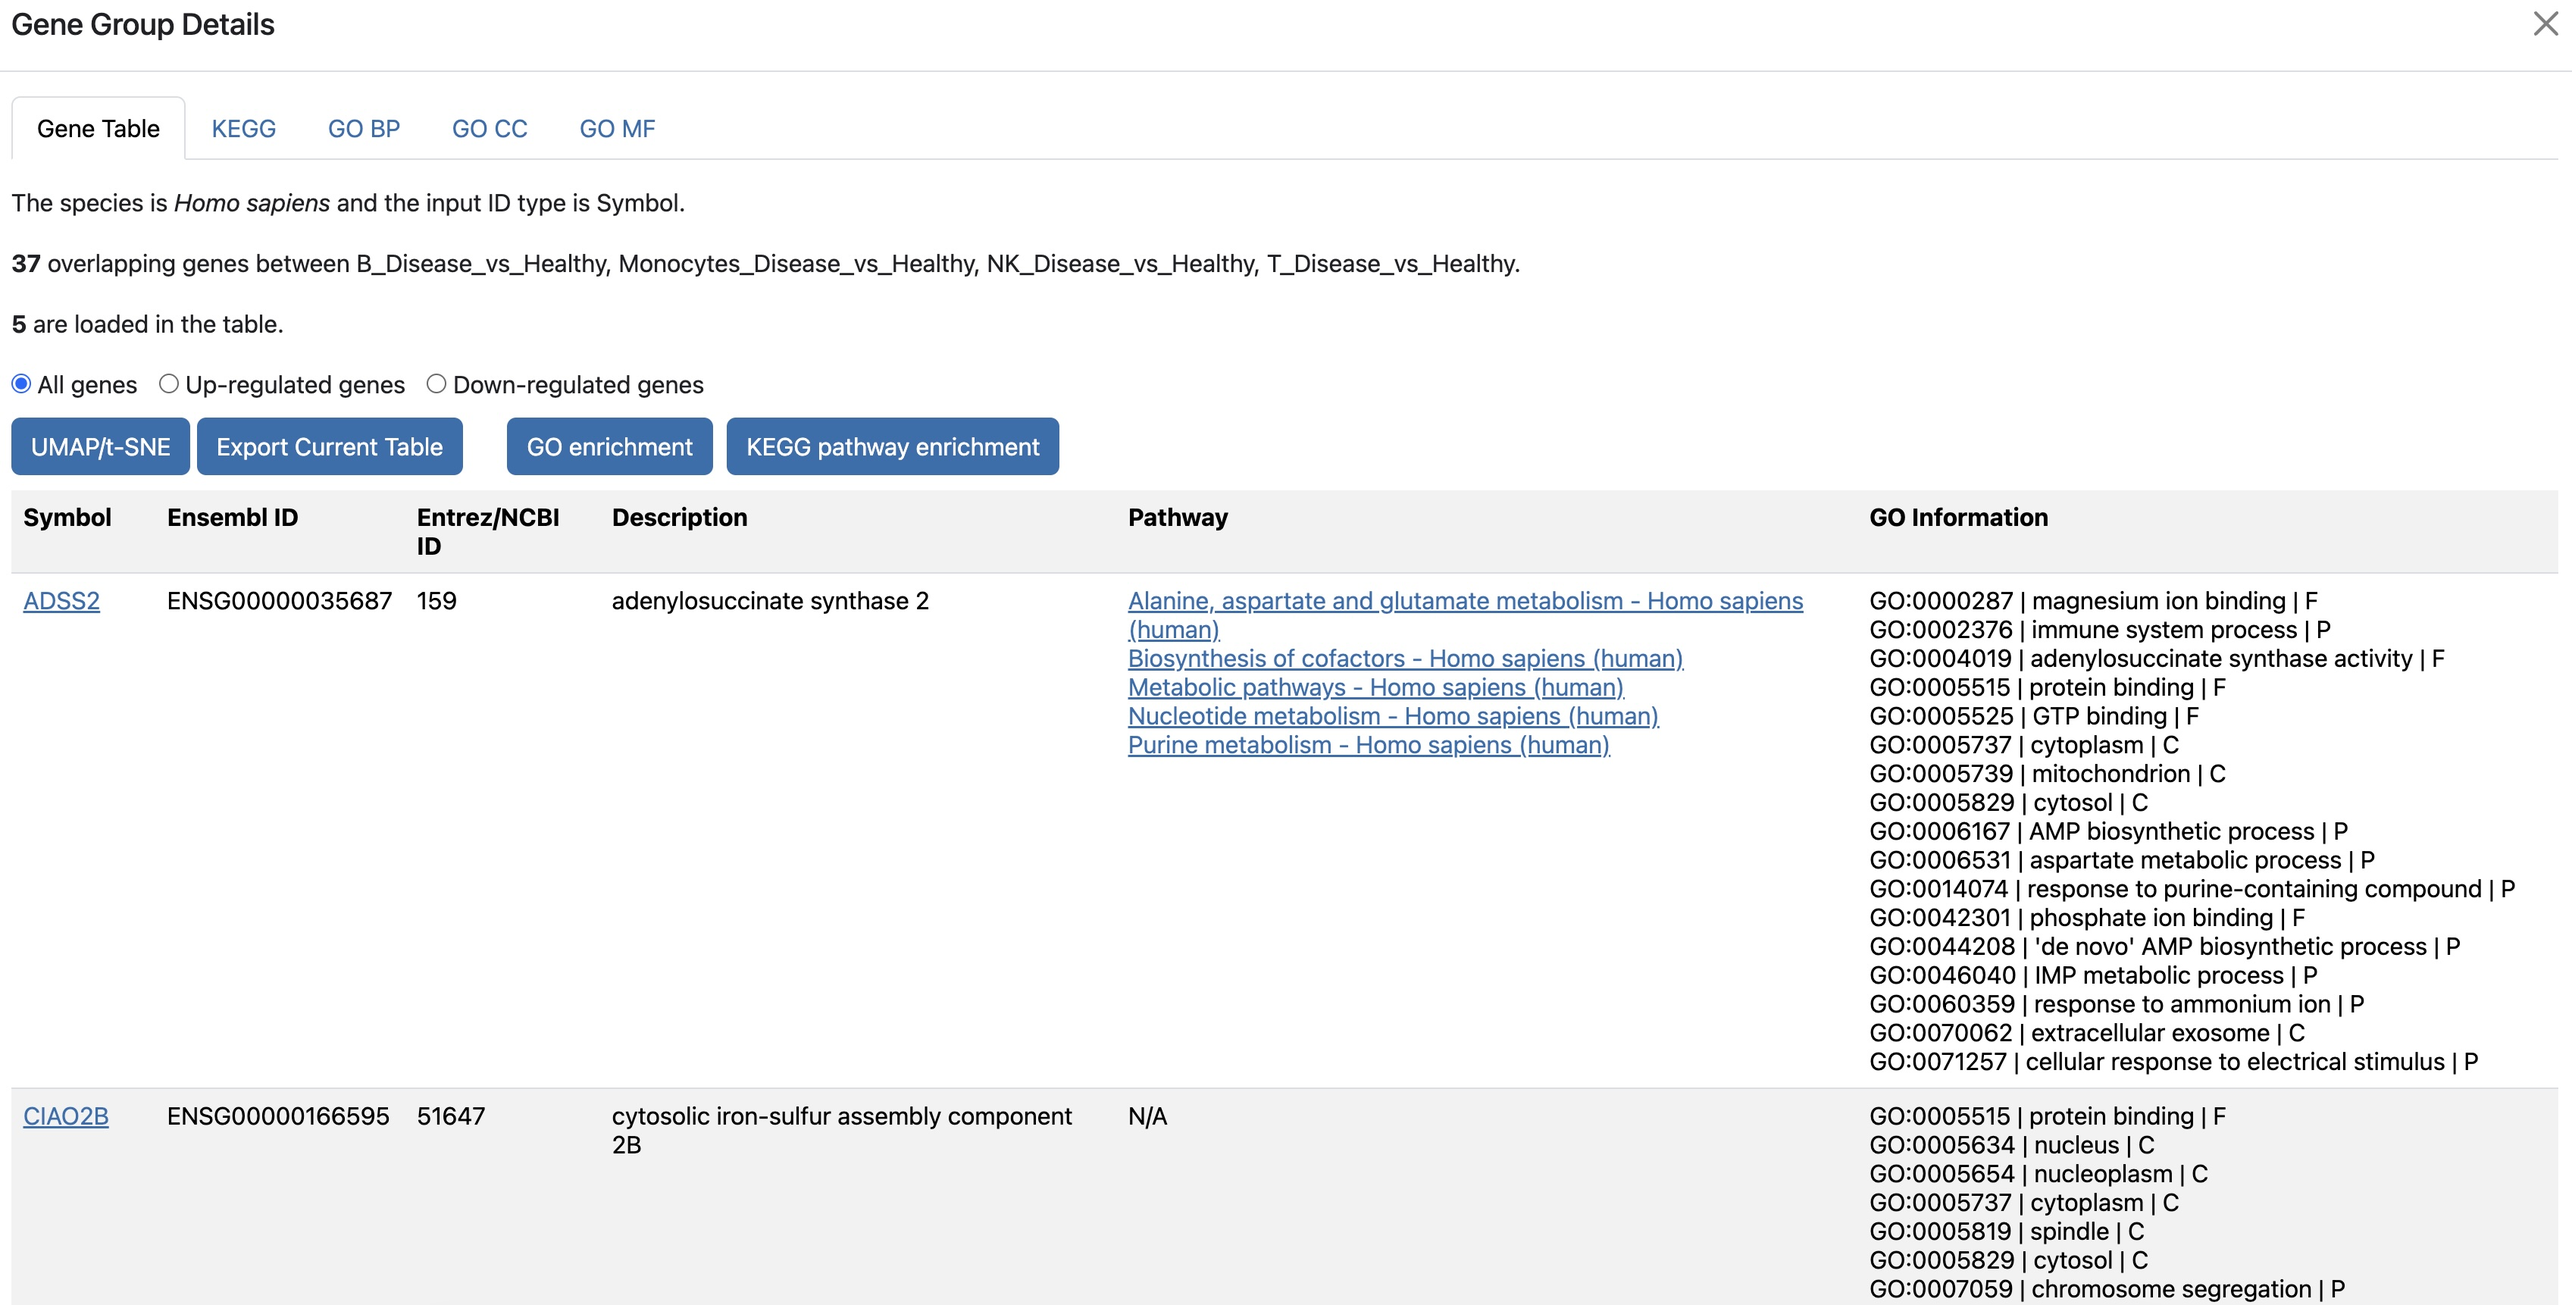
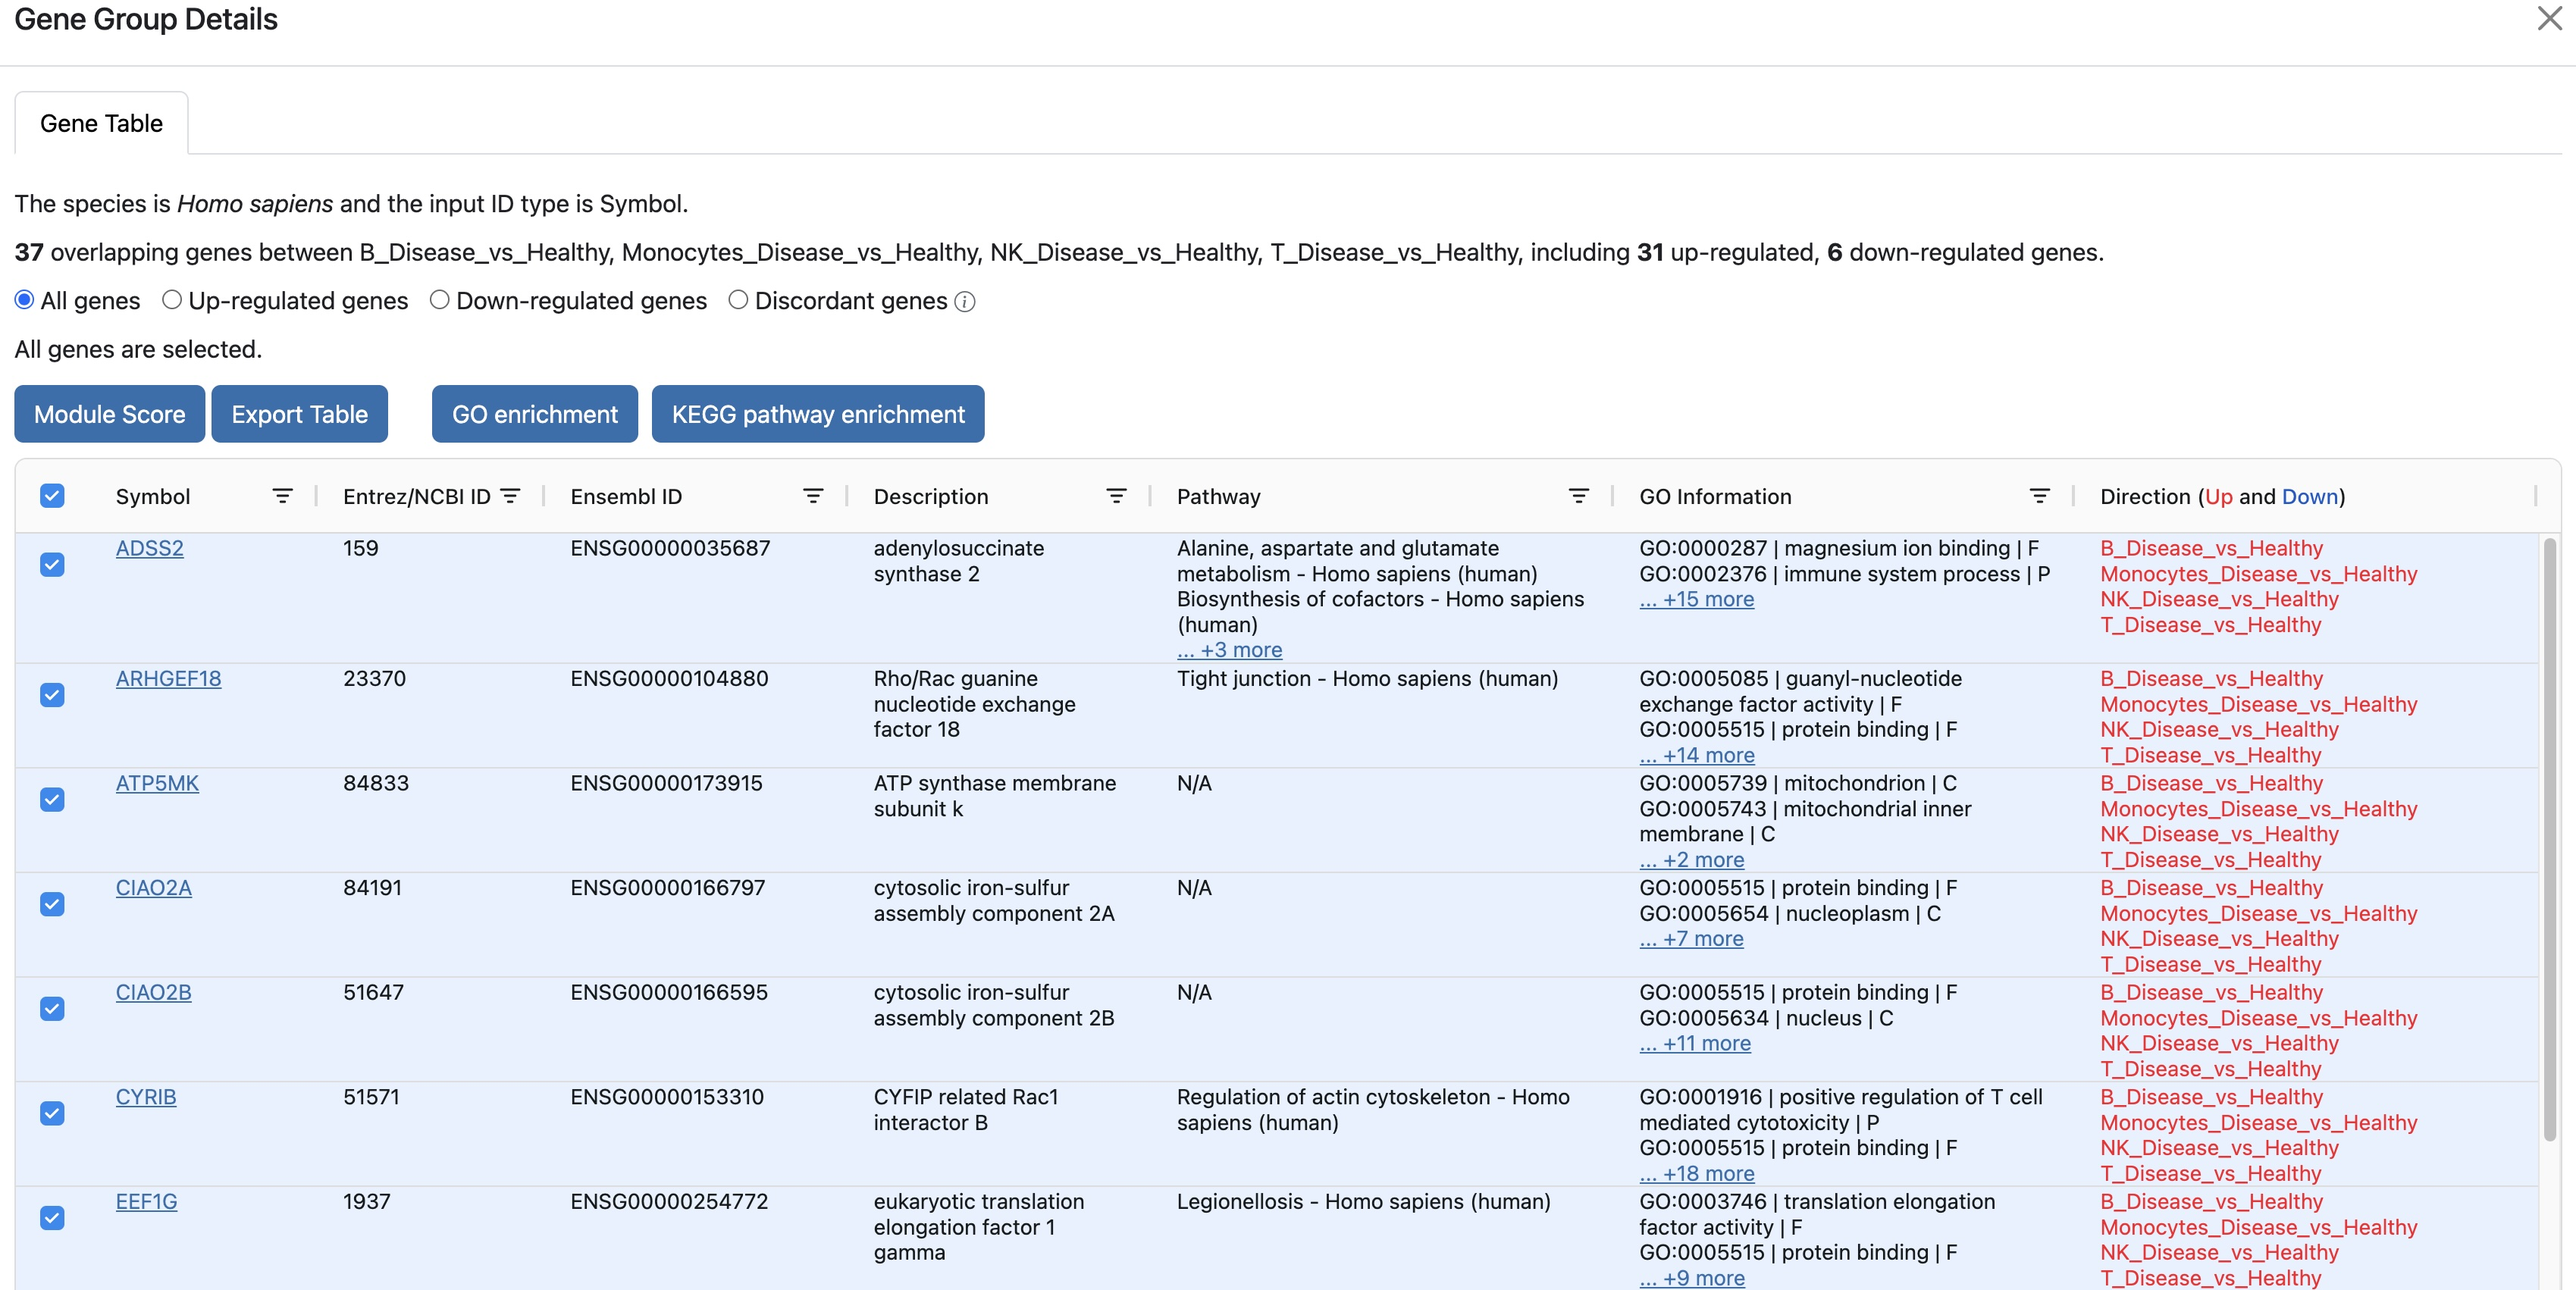
Updates with new features and images

diff --git a/README.md b/README.md
@@ -94,7 +94,7 @@ on their own cut-off value of fold change. Additional columns can be added to in
 
 An annotated `.h5ad` (H5 AnnData) file of single-cell data is accepted as the input. If users have a `.rds` file from the Seurat pipeline, we provide a Docker pipeline to preprocess and convert the data. DiVenn can perform differentially expressed gene analysis with default methods and parameters in Seurat and Scanpy. Users can use the Docker pipeline described below to adjust the parameters.
 
-**Note**: Only Chrome and FireFox are supported for processing `.h5ad` files in the browser. Due to techinical limitations, Chrome can only work with files smaller than 2GB. If you encounter problems with large files (for example larger than 5GB), please consider using our Docker pipeline for preprocessing.
+**Note**: Only Google Chrome (or other Chromium-based browsers like Microsoft Edge) and FireFox are supported for processing `.h5ad` files in the browser. In theory, up to 16 GB files are supported, but it is also affected by the amount of available memory in the system. If you encounter problems with large files (for example, larger than 5GB), please consider using our Docker pipeline for preprocessing.
 
 #### Docker Pipeline
 - Accept `.rds` (Seurat) or `.h5ad` (Scanpy) files.
@@ -113,25 +113,25 @@ An annotated `.h5ad` (H5 AnnData) file of single-cell data is accepted as the in
 4. Click the `H5AD` button to a separate page.
 
 <div align="left">
-  <img src="./images/scRNAseq_loadData_202604.jpg" alt="scRNA data input" width="100%"/>
+  <img src="./images/scRNAseq_loadData_202606.jpg" alt="scRNA data input" width="100%"/>
   <p><em>Figure 4: Interface of scRNAseq data input</em></p>
 </div>
 
 In the new page, users can load a `.h5ad` file. DiVenn will detect whether the file contains DEG results either from the Docker pipeline or Scanpy. Users can select DEG lists for visualization and comparison in DiVenn.
 
 #### Calculating DEG on-the-fly based on annotations
-If no DEG results are found, users can select annotations from the file to calculate DEGs on the fly. Users should first choose the annotation of comparison conditions (e.g. disease and control) and then the cell subsets to compare in (e.g. cell types). The selected annotations will be used in the next step to select the comprisons. For example, condition 1 vs condition 2 in selected cell subsets, respectively. Multiple selection is supported with pressing the Shift key. More pairs of conditions can be added by clicking `Add Condition`. After clicking `Calcualte DEG`, the significant DEG lists will be shown similar to the precomputed results.
+If no DEG results are found, users can select annotations from the file to calculate DEGs on the fly. Users should first choose the annotation of comparison conditions (e.g. disease and control) and then the cell subsets to compare in (e.g. cell types). The selected annotations will be used in the next step to select the comprisons. For example, condition 1 vs condition 2 in selected cell subsets, respectively. Range selection is supported with pressing the Shift key and individual multiple selection can be down by holding the Control (Windows/Linux) or Command key (Mac). More pairs of conditions can be added by clicking `Add Condition`. After clicking `Calcualte DEG`, the significant DEG lists will be shown similar to the precomputed results.
 
 <div align="left">
   <img src="./images/scRNAseq_select_conditions_202604.jpg" alt="scRNA comparison selection" width="100%"/>
-  <p><em>Figure 6: Interface to select DEG comparisons</em></p>
+  <p><em>Figure 5: Interface to select DEG comparisons</em></p>
 </div>
 
 #### H5AD file with precomputed DEG 
 If the input `.h5ad` file contains precomputed DEGs, either from the Docker pipeline or Scanpy analysis, DiVenn will extract the differential gene lists and users can directly select them to visulize on DiVenn graph. 
 <div align="left">
   <img src="./images/scRNAseq_precomp_DEG.jpg" alt="scRNA data DEG lists" width="100%"/>
-  <p><em>Figure 5: Interface to select precomputed DEG lists from scRNAseq data</em></p>
+  <p><em>Figure 6: Interface to select precomputed DEG lists from scRNAseq data</em></p>
 </div>
 
 
@@ -153,8 +153,8 @@ If the input `.h5ad` file contains precomputed DEGs, either from the Docker pipe
 
 ### Force-Directed Graph
 - Scrolling with the mouse wheel on the graph will zoom into/out of the graph.
-- Left-clicking will highlight edges (expression patterns). 
-- Double-clicking the same node will hide the connecting edge colors.
+- Left-clicking on gene nodes will highlight the group and connecting input gene lists. Click again on the background to reset.
+- Left-clicking on edges will highlight edges with colors of regulation directions.
 - Right-clicking a node will show five function options: show or hide one or all node labels, show all gene associated pathways, or GO terms.
 - Right-clicking nodes can show the gene IDs of interest (See figure 8)
 
@@ -164,8 +164,9 @@ If the input `.h5ad` file contains precomputed DEGs, either from the Docker pipe
 </div>
 
 ### Customization
-- Adjust font size, color, and node shape (See figure 9)
+- Adjust font size, color, node shape, and etc. (See figure 9)
 - Summarize groups and collapse nodes
+- Search genes to highlight
 - Filter by condition, GO term, or pathway
 
 <div align="left">
@@ -188,13 +189,15 @@ Access detailed gene information by right-clicking nodes and select `Gene detail
 ### KEGG pathway and GO terms
 If users need to check the KEGG pathway or GO terms of a group of genes (for example, regulated genes in group Z versus group D in cell type D), they can choose the `Gene group detail` option after right clicking the node (See figure 11).
 
+The table allows users to select genes either with quick filters of up-, down-regulated genes consistent across the selected groups or discordant genes that have different regulatory directions. Users could also directly select genes in the table manually. Selected genes will be used for downstream analysis, such as enrichment analysis and module score calculation.
+
 <div align="left">
   <img src="./images/scRNAseq_geneDetails.jpg" alt="Gene Pathway" width="100%"/>
   <p><em>Figure 11: Genes in a group with KEGG and GO annotations</em></p>
 </div>
 
 ### GO Enrichment
-To perform GO enrichment for this set of genes, users need to click `GO enrichment` tab. It uses `clusterProfiler` R package to perform GO enrichment.
+To perform GO enrichment for this set of genes, users need to click `GO enrichment` button. It uses the `clusterProfiler` R package to perform GO enrichment.
 
 User also can switch different GO enrichment results namely Biological Process (BP), Molecular Function (MF), and Cellular Component (CC). In the tab of each GO category, result table (figure 12), bar chart (figure 13), tree map plot (figure 14), and AI interpretation (figure 15) can be viewed.
 
@@ -253,12 +256,12 @@ The enrichment results are sent to Google's Gemma model for interpretation. User
 ---
 
 ## scRNAseq analysis and visualization
-When the input `.h5ad` file of scRNAseq data contains UMAP and t-SNE coordinates stored in standard `X_UMAP` and `X_TSNE` slots, DiVenn can visualize expression of individual genes on the dimension reduction plot (often called feature plot). When right clicking on a gene node in the Divenn graph, there is a `Feature plot` menu option that will open a new page.
+When the input `.h5ad` file of scRNAseq data contains UMAP and t-SNE coordinates stored in standard `X_UMAP` and `X_TSNE` slots, DiVenn 2 can visualize expression of individual genes on the dimension reduction plot (often called feature plot). When right clicking on a gene node in the Divenn graph, there is a `Feature plot` menu option that will open a new page.
 
 Users can color the cells by annotations in the file and search for genes to get feature plots. The color for annotations can be changed by clicking on the color boxes before the annotation labels. Cell groups can be hidden by unselecting from the annotation list.
 
 <div align="left">
-  <img src="./images/featurePlot_202604.jpg" alt="Feature plot" width="100%"/>
+  <img src="./images/featurePlot_202606.jpg" alt="Feature plot" width="100%"/>
   <p><em>Figure 20: Feature plot</em></p>
 </div>
 
@@ -267,7 +270,7 @@ From the `Gene group detail` window, users can also navigate the UMAP/t-SNE page
 From the result table of GO and KEGG enrichment results, users can also view the feature plot of each overlapping gene in the pathway and calculate the module score of the input genes in the pathway (Figure 12 and 16).
 
 <div align="left">
-  <img src="./images/moduleScorePlot_202604.jpg" alt="Module score plot" width="100%"/>
+  <img src="./images/moduleScorePlot_202606.jpg" alt="Module score plot" width="100%"/>
   <p><em>Figure 21: UMAP plot colored by module score</em></p>
 </div>
 
@@ -296,6 +299,6 @@ Please cite the original DiVenn publication if you use this tool:
 
 ## Contact & Contributions
 
-DiVenn is developed and maintained by the **Research Computing Bioinformatics Team at Boston Children Hospital**.  
+DiVenn is developed and maintained by the **Research Informatics Bioinformatics Team at Boston Children Hospital**.  
 For issues or feature requests, [open an issue](https://github.com/BCH-RC/DiVenn2/issues) or reach out through the homepage.
 
